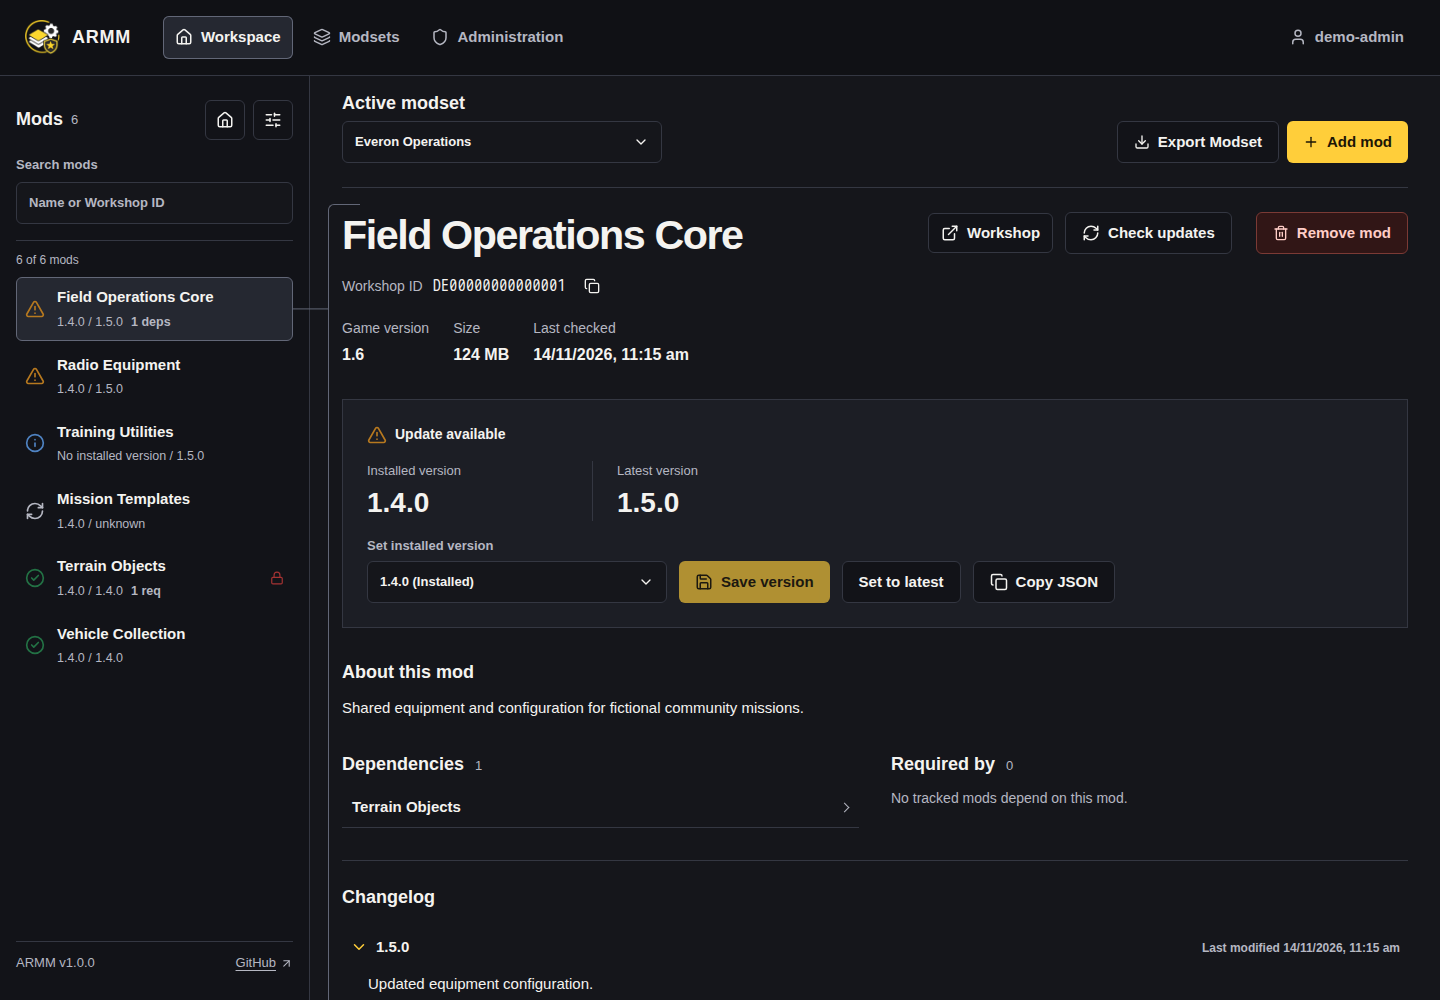
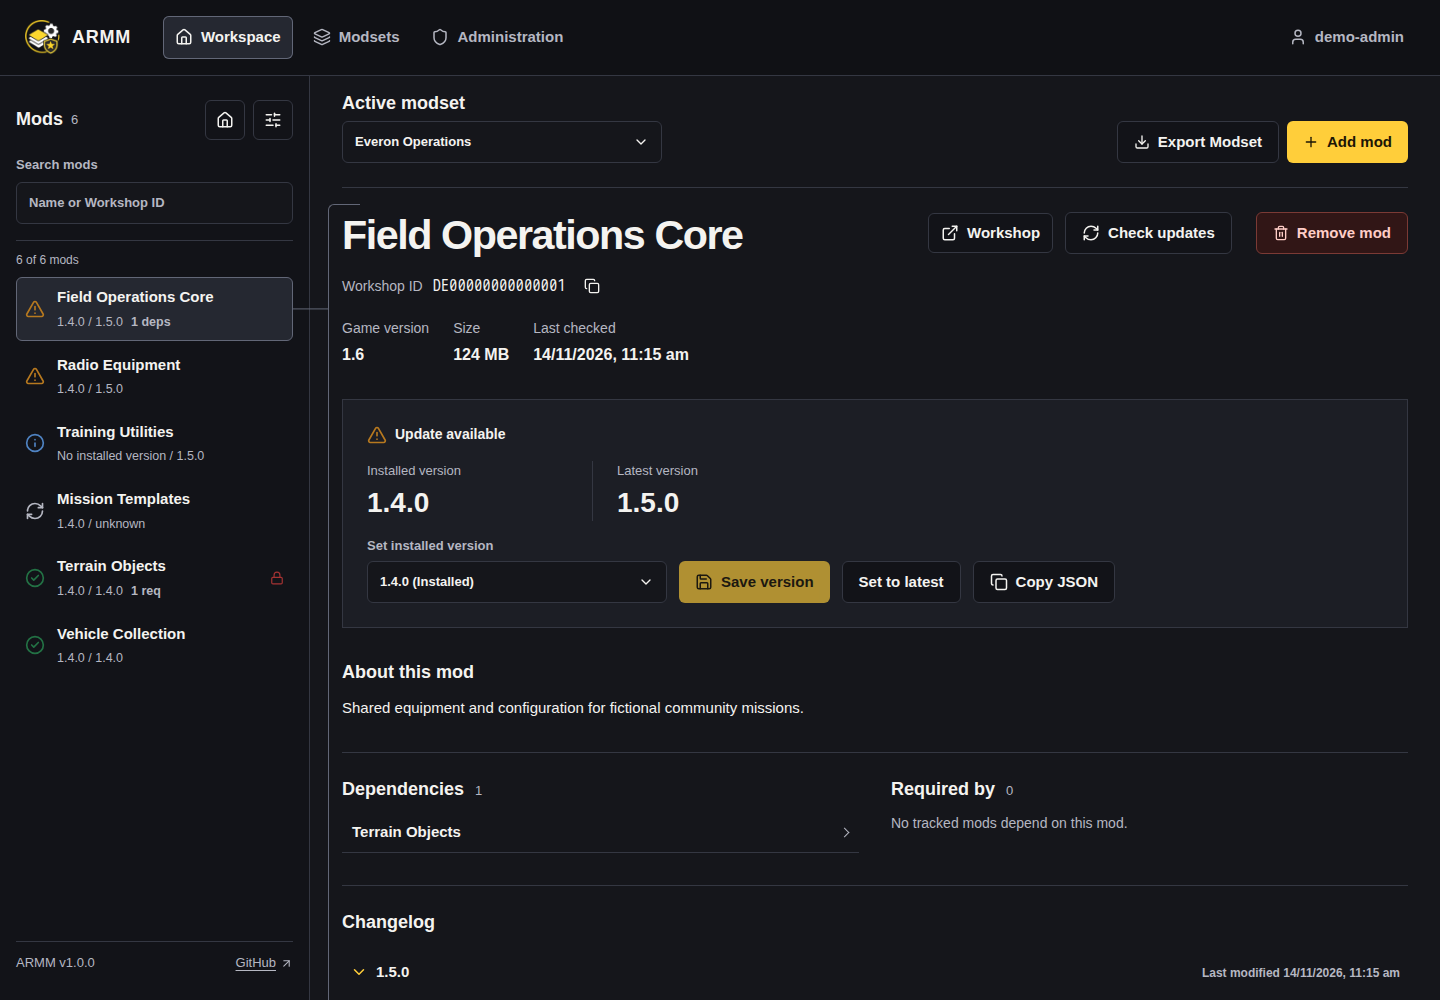
Prepare release 1.1.0

diff --git a/README.md b/README.md
@@ -7,7 +7,7 @@ It stores mod data per user-owned modset, regularly refreshes Workshop metadata,
 
 *Current `main` interface with fictional demonstration data. [More screenshots](docs/screenshots.md).*
 
-**Current release: 1.0.0.** Adds the running ARMM version, administrator release notifications, and permanent deletion of configured [Sync accesses](docs/sync-access.md). It also updates runtime dependencies. Deployment examples select `1.0.0`. See the [release notes](docs/releases/1.0.0.md) and [upgrade guide](docs/upgrading.md).
+**Current release: 1.1.0.** Redesigns the workspace and administration, and adds explicit controls for enabling, disabling and renewing [Sync access](docs/sync-access.md). Deployment examples select `1.1.0`. See the [release notes](docs/releases/1.1.0.md) and [upgrade guide](docs/upgrading.md).
 
 [User guide](docs/user-guide.md) · [Documentation index](docs/README.md) · [Upgrade guide](docs/upgrading.md) · [Wiki](https://github.com/morok101st/Arma-Reforger-Mod-Manager/wiki)
 
@@ -224,7 +224,7 @@ The UI manages export order as a list with positions **1, 2, 3…**.
 - Adding a mod or changing a mod's installed version returns quickly in the UI. The request only waits for the initial Workshop scrape when a new mod is added; reliable version checks through Reforger and follow-up dependency metadata refreshes run through a small deduplicated backend queue with two workers.
 - Automatic scheduled checks use scraping only. Use the manual refresh button on a mod when you explicitly want a reliable latest-version check through the Reforger CLI metadata service.
 - Local production files intentionally remain unversioned: `.env`, `docker-compose.yml`.
-- The example compose file uses GHCR images pinned by `ARMM_IMAGE_TAG` (currently `1.0.0`) and does not build locally. Use a source build only when reviewing changes beyond a published release.
+- The example compose file uses GHCR images pinned by `ARMM_IMAGE_TAG` (currently `1.1.0`) and does not build locally. Use a source build only when reviewing changes beyond a published release.
 
 ### Optional OIDC login
 

diff --git a/docs/upgrading.md b/docs/upgrading.md
@@ -1,6 +1,6 @@
 # Upgrading ARMM
 
-Tracked image examples select **1.0.0**. Upgrading from 0.2.8 requires no new database migration or required environment variable. Keep your existing PostgreSQL volume and `ARMM_SECRET_KEY`, set `ARMM_IMAGE_TAG=1.0.0`, then pull and recreate the ARMM services. See the [release notes](releases/1.0.0.md).
+Tracked image examples select **1.1.0**. Upgrading from 1.0.0 requires no new database migration or required environment variable. Keep your PostgreSQL volume and `ARMM_SECRET_KEY`, set `ARMM_IMAGE_TAG=1.1.0`, then pull and recreate the ARMM services. See the [release notes](releases/1.1.0.md).
 
 | Starting point | Changes requiring attention | Detailed guide |
 | --- | --- | --- |
@@ -9,6 +9,7 @@ Tracked image examples select **1.0.0**. Upgrading from 0.2.8 requires no new da
 | 0.2.6 → 0.2.7 | Parent/child inheritance, parent-controlled ordering and a sequence editor. Additive migrations `003_base_modsets` and `004_base_export_order`; existing modsets keep independent ordering. | [Parent/Child guide](parent-child-modsets.md), [release notes](releases/0.2.7.md) |
 | 0.2.7 → 0.2.8 | Administrator-managed Sync access with saved configuration/encrypted keys. Additive migrations `005_modset_sync_access` and `006_sync_configuration`; existing modsets, groups, sessions and exports are retained. | [Sync access](sync-access.md), [release notes](releases/0.2.8.md) |
 | 0.2.8 → 1.0.0 | ARMM version and release notices, Sync access deletion and runtime/security updates. No new database migration. | [Release notes](releases/1.0.0.md) |
+| 1.0.0 → 1.1.0 | Workspace and administration redesign, group grant visibility, and separate Sync access enable, disable and key renewal actions. No new migration. | [Release notes](releases/1.1.0.md) |
 
 The redesign, URL navigation, resource recovery and atomic user update add no schema migration. Persistent manual jobs add `002_mod_refresh_jobs`; it runs automatically at startup. No new required environment variables or additional service is needed.
 

diff --git a/docs/README.md b/docs/README.md
@@ -1,6 +1,6 @@
 # ARMM documentation
 
-These pages describe **1.0.0**. Deployment examples select `1.0.0`. See the [release notes](releases/1.0.0.md) and [upgrade guide](upgrading.md).
+These pages describe **1.1.0**. Deployment examples select `1.1.0`. See the [release notes](releases/1.1.0.md) and [upgrade guide](upgrading.md).
 
 | Task | Reference |
 | --- | --- |
@@ -15,7 +15,7 @@ These pages describe **1.0.0**. Deployment examples select `1.0.0`. See the [rel
 | Operate persistent manual checks | [Manual refresh and 0.2.5 upgrades](manual-refresh-upgrade.md) |
 | Build source / verify changes | [Development and asset tooling](development.md) |
 | Review changes since 0.2.7 | [Changes in 0.2.8](changes-since-0.2.7.md) |
-| Review release behavior | [1.0.0 release notes](releases/1.0.0.md), [0.2.8 release notes](releases/0.2.8.md), [0.2.7 release notes](releases/0.2.7.md), [0.2.6 notes](releases/0.2.6.md), [historical 0.2.5 notes](releases/0.2.5.md) |
+| Review release behavior | [1.1.0 release notes](releases/1.1.0.md), [1.0.0 release notes](releases/1.0.0.md), [0.2.8 release notes](releases/0.2.8.md), [0.2.7 release notes](releases/0.2.7.md), [0.2.6 notes](releases/0.2.6.md), [historical 0.2.5 notes](releases/0.2.5.md) |
 
 The repository guides are the detailed references; the wiki provides task-oriented entry points and deployment chapters. Historical release notes describe that release and are not rewritten to describe unreleased features.
 

diff --git a/docs/releases/1.1.0.md b/docs/releases/1.1.0.md
@@ -1,0 +1,13 @@
+# ARMM 1.1.0
+
+## Highlights
+
+- Redesigned workspace with clearer version comparisons, alphabetized dependencies, responsive export ordering and a visual link between the selected mod and its detail view.
+- Consistent administration tables, action menus and dialogs. Groups show their read and write grants by modset, and audit entries expand to show additional details.
+- Sync access has separate **Disable**, **Enable** and **Renew key** actions. Disabling now preserves the key and settings, so re-enabling an authorized access can restore existing imports. Renewing invalidates the previous key and requires importing the new configuration. Accesses disabled under older versions may need a renewal if their key was already cleared.
+
+## Upgrade from 1.0.0
+
+Back up PostgreSQL and the matching `.env`. Keep your existing data volume and `ARMM_SECRET_KEY`, set `ARMM_IMAGE_TAG=1.1.0`, then pull and recreate the ARMM services. No new database migration, service or required environment variable is introduced.
+
+Check application health, sign in, open a modset and verify an existing Sync export if you use Sync access. For earlier releases, see the [upgrade guide](https://github.com/morok101st/Arma-Reforger-Mod-Manager/blob/v1.1.0/docs/upgrading.md).

diff --git a/docs/api.md b/docs/api.md
@@ -54,4 +54,4 @@ Modset activity and administrator audit reads support `limit`/`offset`. Audit ca
 
 ## Sync access
 
-Version 0.2.8 adds export-only bearer keys and `armm-sync.json` with a server-generated `exportPath`. On current `main`, administrators can enable a valid existing key and renew a key through separate endpoints. See [sync access](sync-access.md) for authentication, endpoints, import fields and parent/child permissions. Existing session-authenticated routes retain their permissions.
+Version 0.2.8 adds export-only bearer keys and `armm-sync.json` with a server-generated `exportPath`. Starting in 1.1.0, administrators can enable a valid existing key and renew a key through separate endpoints. See [sync access](sync-access.md) for authentication, endpoints, import fields and parent/child permissions. Existing session-authenticated routes retain their permissions.

diff --git a/docs/sync-access.md b/docs/sync-access.md
@@ -1,6 +1,6 @@
 # Sync access
 
-Sync access was introduced in **0.2.8**. This guide describes current `main`. Administrators manage configured accesses under **Administration → Sync access**. This page lists existing accesses only, including disabled or blocked entries; it does not repeat the modset directory.
+Sync access was introduced in **0.2.8**. This guide describes **1.1.0**. Administrators manage configured accesses under **Administration → Sync access**. This page lists existing accesses only, including disabled or blocked entries; it does not repeat the modset directory.
 
 ## Create an access
 

diff --git a/docs/development.md b/docs/development.md
@@ -1,6 +1,6 @@
 # Source builds and documentation tooling
 
-Release installations use the tracked GHCR example, currently selecting **1.0.0**. To review a source revision independently of published images, build that revision locally instead of inventing an image tag.
+Release installations use the tracked GHCR example, currently selecting **1.1.0**. To review a source revision independently of published images, build that revision locally instead of inventing an image tag.
 
 ## Build the current source
 

diff --git a/docs/screenshots.md b/docs/screenshots.md
@@ -1,6 +1,6 @@
 # Interface gallery
 
-All captures show the current `main` interface with **fictional demonstration data**. Build versions, account names and server details are illustrative. The capture script uses a read-only mocked API fixture.
+All captures show the **1.1.0** interface with **fictional demonstration data**. Build versions, account names and server details are illustrative. The capture script uses a read-only mocked API fixture.
 
 ## Workspace
 

diff --git a/docs/user-guide.md b/docs/user-guide.md
@@ -1,6 +1,6 @@
 # User guide
 
-This guide describes the interface on current `main`. For the published 1.0.0 release, see its [release notes](releases/1.0.0.md). Screenshots use fictional [demonstration data](screenshots.md).
+This guide describes the **1.1.0** interface. See the [release notes](releases/1.1.0.md). Screenshots use fictional [demonstration data](screenshots.md).
 
 ## ARMM version and release updates
 
